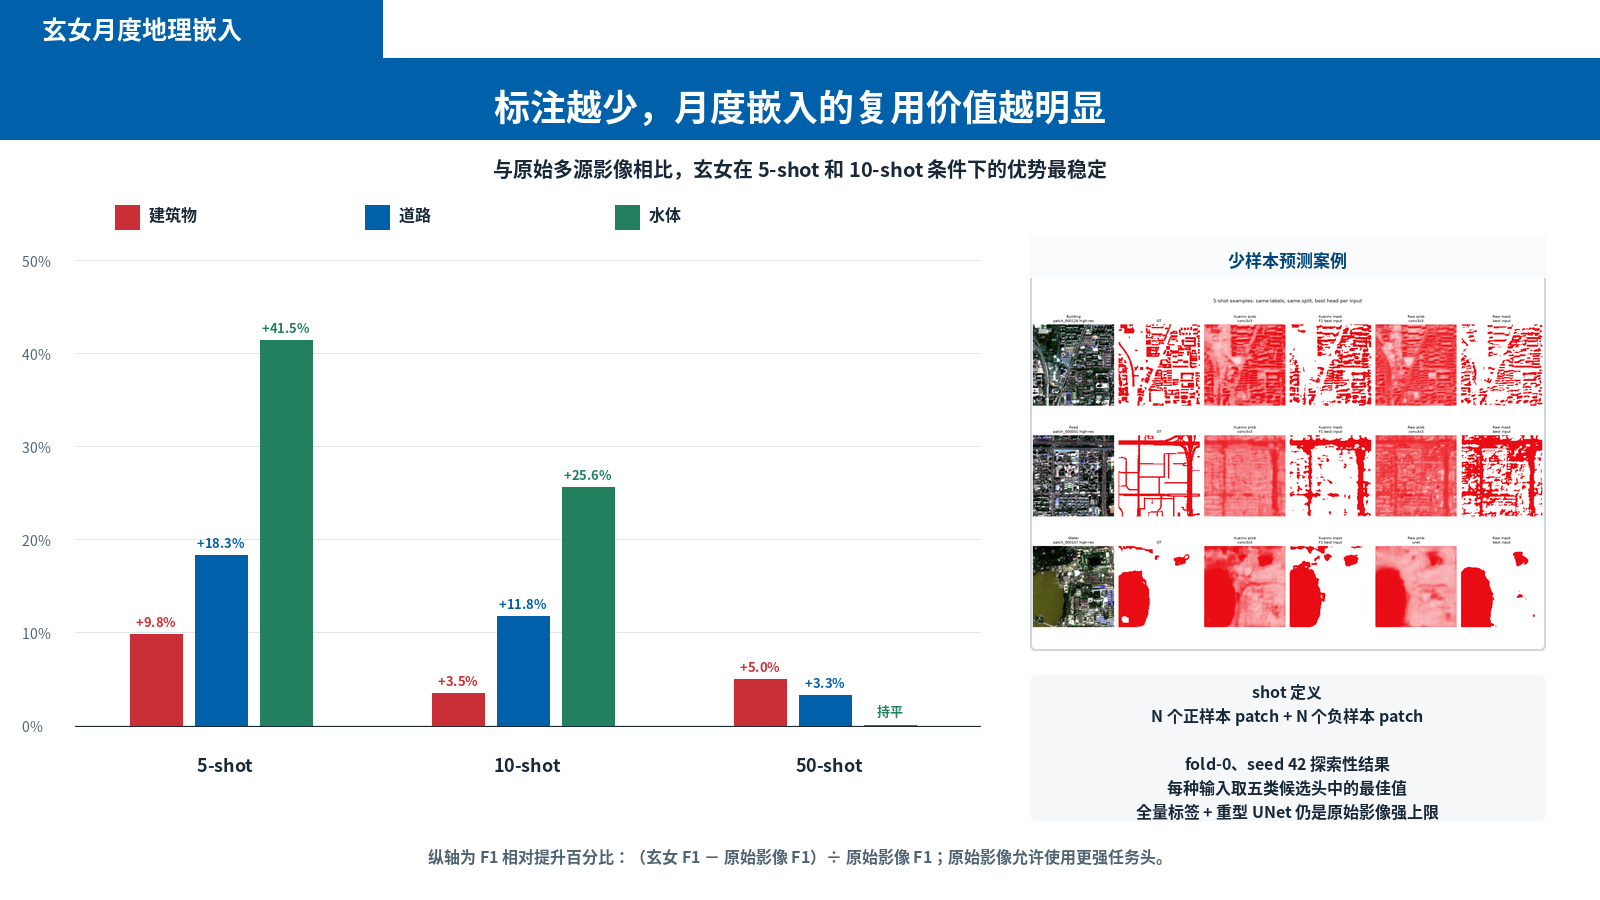
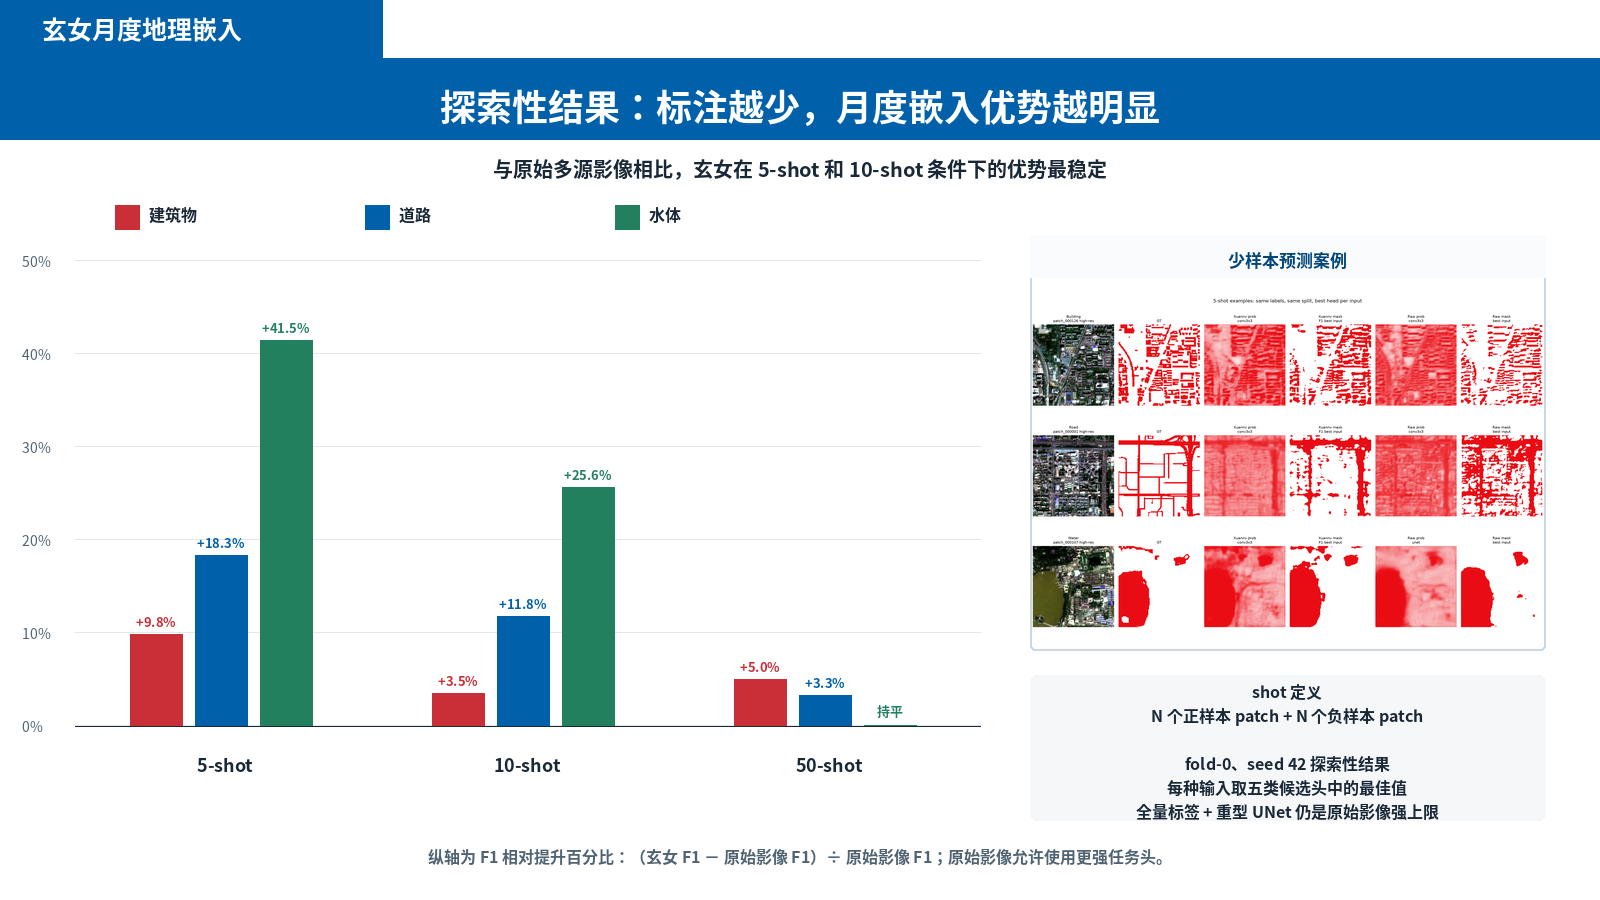
docs: finalize reviewed Pujiang ten-slide narrative

Changed region(s): [[0.2812, 0.0933, 0.7188, 0.1556]]

diff --git a/scripts/report/build_pujiang_slides04_10.py b/scripts/report/build_pujiang_slides04_10.py
@@ -55,7 +55,7 @@ PAGE_TITLES = {
     6: "嵌入底座进入遥感智能体工作流",
     7: "云遮挡或观测缺失时，生成指定时刻的遥感参考影像",
     8: "海淀区同协议评测：64 维月度嵌入达到 AEF 同量级",
-    9: "标注越少，月度嵌入的复用价值越明显",
+    9: "探索性结果：标注越少，月度嵌入优势越明显",
     10: "哈尔滨新区：从月度嵌入到城市治理专题",
 }
 
@@ -412,7 +412,7 @@ def page08() -> tuple[Image.Image, dict]:
     draw = draw_header(
         canvas,
         PAGE_TITLES[8],
-        "相同标签、相同划分、相同 conv3×3 轻量头与相同阈值规则；F1 越高越好",
+        "同标签/划分/conv3×3头/阈值规则；玄女为2026年4月月度产品，AEF为2025年度产品",
     )
     tasks = ["建筑物", "道路", "水体"]
     values = {
@@ -550,7 +550,7 @@ def page10() -> tuple[Image.Image, dict]:
     draw.rounded_rectangle((700, 804, 1530, 860), radius=5, fill=PALE_GRAY)
     centered(
         draw,
-        "月度更新｜轻量任务头｜可由平台和智能体调用｜结果回到地图复核",
+        "海淀验证方法效果，哈尔滨验证跨区域部署与应用能力｜结果回到地图复核",
         (715, 806, 1515, 858),
         font(17, True),
         INK,

diff --git a/tests/test_pujiang_slides04_10.py b/tests/test_pujiang_slides04_10.py
@@ -34,7 +34,7 @@ def test_slides05_to10_build_with_required_evidence(tmp_path: Path) -> None:
         6: ("嵌入底座进入遥感智能体工作流", "embedding_tool"),
         7: ("云遮挡或观测缺失时，生成指定时刻的遥感参考影像", "参考影像"),
         8: ("海淀区同协议评测：64 维月度嵌入达到 AEF 同量级", 0.484),
-        9: ("标注越少，月度嵌入的复用价值越明显", 41.5),
+        9: ("探索性结果：标注越少，月度嵌入优势越明显", 41.5),
         10: ("哈尔滨新区：从月度嵌入到城市治理专题", "V5/v2 API"),
     }
     for page, (title, evidence) in expectations.items():
